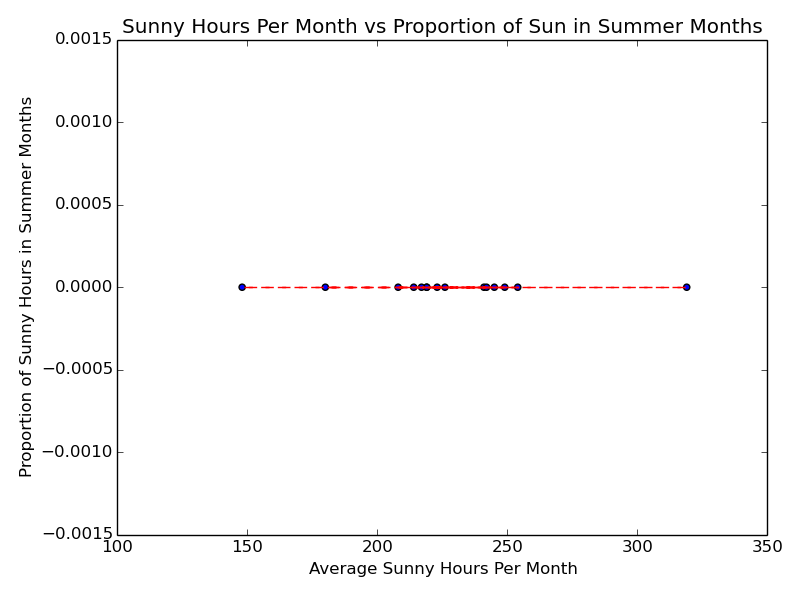
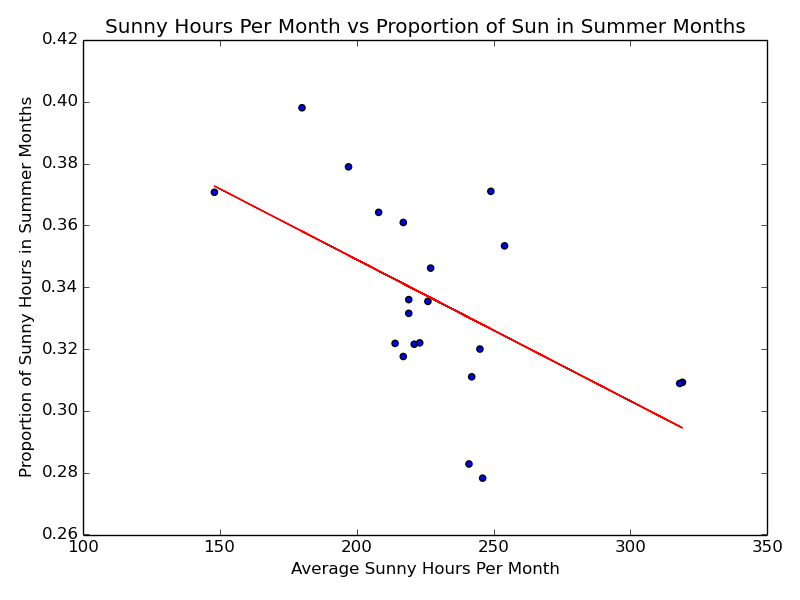
final plot

diff --git a/a1/src/main.py b/a1/src/main.py
@@ -27,12 +27,12 @@ def main():
     max_data[key], _ = _kadane(data[key])
 
   avg_data = [(sum(data[city]) / len(data[city])) for city in data.keys()]
-  summer_ratio = [(max_data[city] / sum(data[city])) for city in data.keys()]
+  summer_ratio = [(1.0 * max_data[city] / sum(data[city])) for city in data.keys()]
 
   plt.scatter(avg_data, summer_ratio)
   z = np.polyfit(avg_data, summer_ratio, 1)
   p = np.poly1d(z)
-  plt.plot(avg_data, p(avg_data), 'r--')
+  plt.plot(avg_data, p(avg_data), 'r-')
 
   plt.xlabel('Average Sunny Hours Per Month')
   plt.ylabel('Proportion of Sunny Hours in Summer Months')
